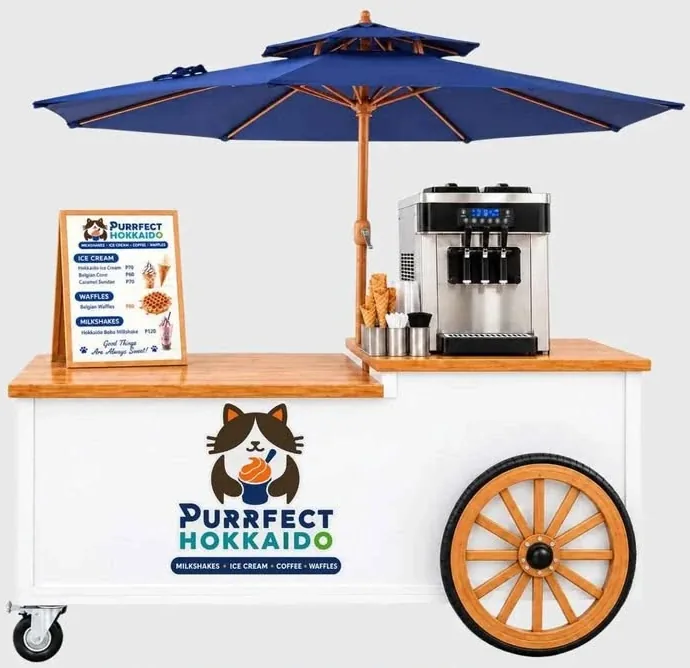
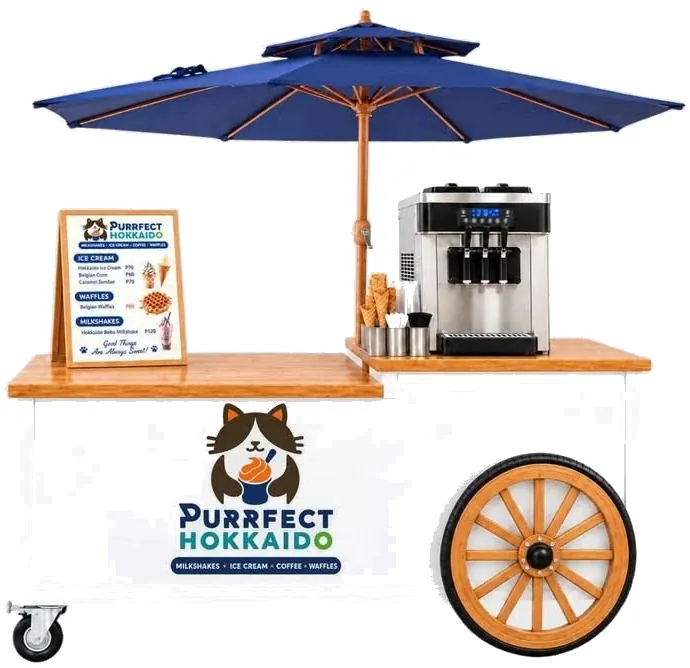
Menu: white cart photo background, white plus on order buttons

diff --git a/clients/purrfect-hokkaido/menu/index.html b/clients/purrfect-hokkaido/menu/index.html
@@ -51,7 +51,7 @@ a{color:inherit}
 .lc-foot small{font-size:11.5px;opacity:.85}
 .tile.bar{background:radial-gradient(120% 90% at 100% 0%,#ff9a52 0%,transparent 55%),linear-gradient(135deg,#f06a1c,var(--price));color:#fff;min-height:108px;padding:10px 12px;align-content:space-between;box-shadow:0 6px 16px rgba(235,78,6,.3)}
 .tile.bar b{font-size:14px;margin:0;display:block}.tile.bar small{font-size:11.5px;display:block}
-.tile.bar .cart{justify-self:end;width:auto;height:68px;aspect-ratio:690/668;border-radius:12px;background:#E9E9E9;object-fit:cover;box-shadow:0 3px 8px rgba(0,0,0,.2);border:2px solid rgba(255,255,255,.85)}
+.tile.bar .cart{justify-self:end;width:auto;height:68px;aspect-ratio:690/668;border-radius:12px;background:#fff;object-fit:cover;box-shadow:0 3px 8px rgba(0,0,0,.2);border:2px solid rgba(255,255,255,.85)}
 .tile.bar .bt{position:relative;z-index:1}
 @media (min-width:760px){.tile.bar .cart{height:72px}}
 .tile.bar::after{display:none}
@@ -80,8 +80,8 @@ main{max-width:1100px;margin:0 auto;padding:0 0 20px}
 .ph{position:relative;flex:none;width:96px;height:96px;border-radius:14px;background:var(--bg)}
 .ph img{width:100%;height:100%;object-fit:contain;padding:6px}
 .ph.none{width:44px;height:44px;background:none}
-.add{position:absolute;right:-4px;bottom:-4px;width:34px;height:34px;border-radius:50%;background:var(--price);color:#fff;display:grid;place-items:center;font-size:24px;font-weight:600;line-height:1;text-decoration:none;box-shadow:0 2px 6px rgba(235,78,6,.4)}
-.ph.none .add{right:0;bottom:4px}
+.plus{position:absolute;right:-4px;bottom:-4px;width:34px;height:34px;border-radius:50%;background:var(--price);color:#fff;display:grid;place-items:center;font:600 26px/1 Fredoka,system-ui,sans-serif;text-decoration:none;box-shadow:0 2px 6px rgba(235,78,6,.4)}
+.ph.none .plus{right:0;bottom:4px}
 .deals{display:grid;grid-template-columns:repeat(auto-fill,minmax(140px,1fr));gap:10px;padding:10px 0 14px}
 .deal{background:var(--navy);color:#fff;border-radius:16px;padding:12px;display:grid;justify-items:center;text-align:center;gap:4px;text-decoration:none}
 .deal img{height:96px;width:auto;object-fit:contain}
@@ -158,11 +158,11 @@ button.getapp img{border-radius:7px}
 <div class="tabs"><nav id="tabs" role="tablist"><a href="#all" role="tab" data-go="all">All</a><a href="#deals" role="tab" data-go="deals">Deals</a><a href="#waffles" role="tab" data-go="waffles">Waffles</a><a href="#sundaes" role="tab" data-go="sundaes">Sundaes</a><a href="#shakes" role="tab" data-go="shakes">Milkshakes</a><a href="#coffee" role="tab" data-go="coffee">Coffee</a><a href="#snacks" role="tab" data-go="snacks">Snacks</a><a href="#addons" role="tab" data-go="addons">Add-ons</a><a href="#mobile-bar" role="tab" data-go="mobile-bar">Mobile Bar</a></nav></div>
 <main>
   <section class="cat" id="deals" data-cat="deals"><h2>Cones &amp; Deals</h2><div class="deals"><a class="deal" href="order.html"><img src="img/deal-hokkaido-waffle-crisp.webp" alt="" width="70" height="110"><span class="dn">Hokkaido Waffle Crisp</span><span class="dh">₱35 ONLY</span></a><a class="deal" href="order.html"><img src="img/deal-matcha-waffle-crisp.webp" alt="" width="70" height="110"><span class="dn">Matcha Waffle Crisp</span><span class="dh">NEW!</span><span class=dp>₱45 </span></a><a class="deal" href="order.html"><img src="img/deal-hokkaido-belgian-cone.webp" alt="" width="70" height="110"><span class="dn">Hokkaido Belgian Cone</span><span class="dh">BUY 1 GET 1</span><span class=dp>₱60 for two</span></a><a class="deal" href="order.html"><img src="img/deal-matcha-belgian-cone.webp" alt="" width="70" height="110"><span class="dn">Matcha Belgian Cone</span><span class="dh">NEW!</span><span class=dp>₱80 </span></a></div></section>
-  <section class="cat" id="waffles" data-cat="waffles"><h2>Waffles</h2><ul class="rows"><li class="row"><div class="info"><p class="nm">Hokkaido Belgian Waffle · Chocolate</p><p class="pr">₱80</p></div><div class="ph"><img src="img/hk-chocolate.webp" alt="" loading="lazy" width="96" height="96"><a class="add" href="order.html" aria-label="Order Hokkaido Belgian Waffle · Chocolate">+</a></div></li><li class="row"><div class="info"><p class="nm">Hokkaido Belgian Waffle · Matcha</p><p class="pr">₱80</p></div><div class="ph"><img src="img/hk-matcha.webp" alt="" loading="lazy" width="96" height="96"><a class="add" href="order.html" aria-label="Order Hokkaido Belgian Waffle · Matcha">+</a></div></li><li class="row"><div class="info"><p class="nm">Hokkaido Belgian Waffle · Strawberry</p><p class="pr">₱80</p></div><div class="ph"><img src="img/hk-strawberry.webp" alt="" loading="lazy" width="96" height="96"><a class="add" href="order.html" aria-label="Order Hokkaido Belgian Waffle · Strawberry">+</a></div></li><li class="row"><div class="info"><p class="nm">Hokkaido Belgian Waffle · Caramel</p><p class="pr">₱80</p></div><div class="ph"><img src="img/hk-caramel.webp" alt="" loading="lazy" width="96" height="96"><a class="add" href="order.html" aria-label="Order Hokkaido Belgian Waffle · Caramel">+</a></div></li><li class="row"><div class="info"><p class="nm">Belgian Waffle · Chocolate</p><p class="pr">₱70</p></div><div class="ph"><img src="img/be-chocolate.webp" alt="" loading="lazy" width="96" height="96"><a class="add" href="order.html" aria-label="Order Belgian Waffle · Chocolate">+</a></div></li><li class="row"><div class="info"><p class="nm">Belgian Waffle · Strawberry</p><p class="pr">₱70</p></div><div class="ph"><img src="img/be-strawberry.webp" alt="" loading="lazy" width="96" height="96"><a class="add" href="order.html" aria-label="Order Belgian Waffle · Strawberry">+</a></div></li><li class="row"><div class="info"><p class="nm">Belgian Waffle · Matcha</p><p class="pr">₱70</p></div><div class="ph"><img src="img/be-matcha.webp" alt="" loading="lazy" width="96" height="96"><a class="add" href="order.html" aria-label="Order Belgian Waffle · Matcha">+</a></div></li><li class="row"><div class="info"><p class="nm">Belgian Waffle · Dark Caramel</p><p class="pr">₱70</p></div><div class="ph"><img src="img/be-dark-caramel.webp" alt="" loading="lazy" width="96" height="96"><a class="add" href="order.html" aria-label="Order Belgian Waffle · Dark Caramel">+</a></div></li></ul></section>
-  <section class="cat" id="sundaes" data-cat="sundaes"><h2>Sundaes</h2><ul class="rows"><li class="row"><div class="info"><p class="nm">Oreo Flow</p><p class="pr">₱80</p></div><div class="ph"><img src="img/sundae-oreo-flow.webp" alt="" loading="lazy" width="96" height="96"><a class="add" href="order.html" aria-label="Order Oreo Flow">+</a></div></li><li class="row"><div class="info"><p class="nm">Milo Overload</p><p class="pr">₱80</p></div><div class="ph"><img src="img/sundae-milo-overload.webp" alt="" loading="lazy" width="96" height="96"><a class="add" href="order.html" aria-label="Order Milo Overload">+</a></div></li><li class="row"><div class="info"><p class="nm">Chocolate Sundae</p><p class="pr">₱70</p></div><div class="ph"><img src="img/sundae-chocolate.webp" alt="" loading="lazy" width="96" height="96"><a class="add" href="order.html" aria-label="Order Chocolate Sundae">+</a></div></li><li class="row"><div class="info"><p class="nm">Caramel Sundae</p><p class="pr">₱70</p></div><div class="ph"><img src="img/sundae-caramel.webp" alt="" loading="lazy" width="96" height="96"><a class="add" href="order.html" aria-label="Order Caramel Sundae">+</a></div></li><li class="row"><div class="info"><p class="nm">Matcha Sundae</p><p class="pr">₱70</p></div><div class="ph"><img src="img/sundae-matcha.webp" alt="" loading="lazy" width="96" height="96"><a class="add" href="order.html" aria-label="Order Matcha Sundae">+</a></div></li><li class="row"><div class="info"><p class="nm">Strawberry Sundae</p><p class="pr">₱70</p></div><div class="ph"><img src="img/sundae-strawberry.webp" alt="" loading="lazy" width="96" height="96"><a class="add" href="order.html" aria-label="Order Strawberry Sundae">+</a></div></li><li class="row"><div class="info"><p class="nm">Chocolate Crumble Bites</p><p class=tags><span class="bs">★ Best seller</span></p><p class="pr">₱90</p></div><div class="ph"><img src="img/sundae-chocolate-crumble-bites.webp" alt="" loading="lazy" width="96" height="96"><a class="add" href="order.html" aria-label="Order Chocolate Crumble Bites">+</a></div></li><li class="row"><div class="info"><p class="nm">Honey Comb Crumble</p><p class="pr">₱90</p></div><div class="ph"><img src="img/sundae-honey-comb-crumble.webp" alt="" loading="lazy" width="96" height="96"><a class="add" href="order.html" aria-label="Order Honey Comb Crumble">+</a></div></li><li class="row"><div class="info"><p class="nm">Karamitsu Boba</p><p class=tags><span class="bs">★ Best seller</span></p><p class="pr">₱90</p></div><div class="ph"><img src="img/sundae-karamitsu-boba.webp" alt="" loading="lazy" width="96" height="96"><a class="add" href="order.html" aria-label="Order Karamitsu Boba">+</a></div></li><li class="row"><div class="info"><p class="nm">Biscoff Supreme</p><p class=tags><span class="bs">★ Best seller</span></p><p class="pr">₱95</p></div><div class="ph"><img src="img/sundae-biscoff-supreme.webp" alt="" loading="lazy" width="96" height="96"><a class="add" href="order.html" aria-label="Order Biscoff Supreme">+</a></div></li></ul></section>
-  <section class="cat" id="shakes" data-cat="shakes"><h2>Milkshakes</h2><p class=sub>Hokkaido milkshakes, ₱120 each</p><ul class="rows"><li class="row"><div class="info"><p class="nm">Hokkaido Boba</p><p class=tags><span class="bs">★ Best seller</span></p><p class="pr">₱120</p></div><div class="ph"><img src="img/shake-hokkaido-boba.webp" alt="" loading="lazy" width="96" height="96"><a class="add" href="order.html" aria-label="Order Hokkaido Boba">+</a></div></li><li class="row"><div class="info"><p class="nm">Matcha</p><p class=tags><span class="bs">★ Best seller</span></p><p class="pr">₱120</p></div><div class="ph"><img src="img/shake-matcha.webp" alt="" loading="lazy" width="96" height="96"><a class="add" href="order.html" aria-label="Order Matcha">+</a></div></li><li class="row"><div class="info"><p class="nm">Dark Mocha</p><p class="pr">₱120</p></div><div class="ph"><img src="img/shake-dark-mocha.webp" alt="" loading="lazy" width="96" height="96"><a class="add" href="order.html" aria-label="Order Dark Mocha">+</a></div></li><li class="row"><div class="info"><p class="nm">Coffee Caramel</p><p class="pr">₱120</p></div><div class="ph"><img src="img/shake-coffee-caramel.webp" alt="" loading="lazy" width="96" height="96"><a class="add" href="order.html" aria-label="Order Coffee Caramel">+</a></div></li><li class="row"><div class="info"><p class="nm">Chocolate Brownie</p><p class=tags><span class="bs">★ Best seller</span></p><p class="pr">₱120</p></div><div class="ph"><img src="img/shake-chocolate-brownie.webp" alt="" loading="lazy" width="96" height="96"><a class="add" href="order.html" aria-label="Order Chocolate Brownie">+</a></div></li><li class="row"><div class="info"><p class="nm">Oreo and Cream</p><p class="pr">₱120</p></div><div class="ph"><img src="img/shake-oreo-and-cream.webp" alt="" loading="lazy" width="96" height="96"><a class="add" href="order.html" aria-label="Order Oreo and Cream">+</a></div></li><li class="row"><div class="info"><p class="nm">Blueberry Cheesecake</p><p class="pr">₱120</p></div><div class="ph"><img src="img/shake-blueberry-cheesecake.webp" alt="" loading="lazy" width="96" height="96"><a class="add" href="order.html" aria-label="Order Blueberry Cheesecake">+</a></div></li><li class="row"><div class="info"><p class="nm">Classic Strawberry</p><p class=tags><span class="bs">★ Best seller</span></p><p class="pr">₱120</p></div><div class="ph"><img src="img/shake-classic-strawberry.webp" alt="" loading="lazy" width="96" height="96"><a class="add" href="order.html" aria-label="Order Classic Strawberry">+</a></div></li></ul></section>
-  <section class="cat" id="coffee" data-cat="coffee"><h2>Coffee</h2><p class=sub>by Primo Café</p><ul class="rows"><li class="row"><div class="info"><p class="nm">Americano</p><p class=ds>Mediano ₱70 (hot or iced) · Grande ₱80 (iced)</p><p class="pr">₱70</p></div><div class="ph none"><a class="add" href="order.html" aria-label="Order Americano">+</a></div></li><li class="row"><div class="info"><p class="nm">Latte</p><p class=ds>Mediano ₱90 (hot or iced) · Grande ₱100 (iced)</p><p class="pr">₱90</p></div><div class="ph none"><a class="add" href="order.html" aria-label="Order Latte">+</a></div></li><li class="row"><div class="info"><p class="nm">Cappuccino</p><p class=ds>Mediano ₱90 (hot or iced) · Grande ₱100 (iced)</p><p class="pr">₱90</p></div><div class="ph none"><a class="add" href="order.html" aria-label="Order Cappuccino">+</a></div></li><li class="row"><div class="info"><p class="nm">Kastilla Latte</p><p class=ds>Mediano ₱100 (hot or iced) · Grande ₱120 (iced)</p><p class="pr">₱100</p></div><div class="ph none"><a class="add" href="order.html" aria-label="Order Kastilla Latte">+</a></div></li><li class="row"><div class="info"><p class="nm">Matcha Espresso</p><p class=ds>Mediano ₱100 (hot or iced) · Grande ₱120 (iced)</p><p class="pr">₱100</p></div><div class="ph none"><a class="add" href="order.html" aria-label="Order Matcha Espresso">+</a></div></li><li class="row"><div class="info"><p class="nm">Hazelnut Latte</p><p class=ds>Mediano ₱100 (hot or iced) · Grande ₱120 (iced)</p><p class="pr">₱100</p></div><div class="ph none"><a class="add" href="order.html" aria-label="Order Hazelnut Latte">+</a></div></li><li class="row"><div class="info"><p class="nm">Caramel Macchiato</p><p class=ds>Mediano ₱100 (hot or iced) · Grande ₱120 (iced)</p><p class="pr">₱100</p></div><div class="ph none"><a class="add" href="order.html" aria-label="Order Caramel Macchiato">+</a></div></li><li class="row"><div class="info"><p class="nm">Mocha Latte</p><p class=ds>Mediano ₱100 (hot or iced) · Grande ₱120 (iced)</p><p class="pr">₱100</p></div><div class="ph none"><a class="add" href="order.html" aria-label="Order Mocha Latte">+</a></div></li><li class="row"><div class="info"><p class="nm">Dark Mocha Latte</p><p class=ds>Mediano ₱100 (hot or iced) · Grande ₱120 (iced)</p><p class="pr">₱100</p></div><div class="ph none"><a class="add" href="order.html" aria-label="Order Dark Mocha Latte">+</a></div></li><li class="row"><div class="info"><p class="nm">White Mocha Latte</p><p class=ds>Mediano ₱100 (hot or iced) · Grande ₱120 (iced)</p><p class="pr">₱100</p></div><div class="ph none"><a class="add" href="order.html" aria-label="Order White Mocha Latte">+</a></div></li><li class="row"><div class="info"><p class="nm">Irish Cream Latte</p><p class=ds>Mediano ₱100 (hot or iced) · Grande ₱120 (iced)</p><p class="pr">₱100</p></div><div class="ph none"><a class="add" href="order.html" aria-label="Order Irish Cream Latte">+</a></div></li><li class="row"><div class="info"><p class="nm">Ube Espresso</p><p class=ds>Mediano ₱100 (hot or iced) · Grande ₱120 (iced)</p><p class="pr">₱100</p></div><div class="ph none"><a class="add" href="order.html" aria-label="Order Ube Espresso">+</a></div></li><li class="row"><div class="info"><p class="nm">Affogato</p><p class=ds>One size</p><p class="pr">₱100</p></div><div class="ph none"><a class="add" href="order.html" aria-label="Order Affogato">+</a></div></li><li class="row"><div class="info"><p class="nm">Gourmet Chocolate</p><p class=ds>Mediano, iced</p><p class="pr">₱110</p></div><div class="ph none"><a class="add" href="order.html" aria-label="Order Gourmet Chocolate">+</a></div></li><li class="row"><div class="info"><p class="nm">Iced Strawberry Milk</p><p class=ds>Mediano, iced</p><p class="pr">₱110</p></div><div class="ph none"><a class="add" href="order.html" aria-label="Order Iced Strawberry Milk">+</a></div></li><li class="row"><div class="info"><p class="nm">Matcha Latte</p><p class=ds>Mediano, iced</p><p class="pr">₱110</p></div><div class="ph none"><a class="add" href="order.html" aria-label="Order Matcha Latte">+</a></div></li><li class="row"><div class="info"><p class="nm">Ube Latte</p><p class=ds>Mediano, iced</p><p class="pr">₱110</p></div><div class="ph none"><a class="add" href="order.html" aria-label="Order Ube Latte">+</a></div></li></ul></section>
-  <section class="cat" id="snacks" data-cat="snacks"><h2>Snacks</h2><ul class="rows"><li class="row"><div class="info"><p class="nm">Chicken Poppers</p><p class=ds>100g</p><p class="pr">₱150</p></div><div class="ph none"><a class="add" href="order.html" aria-label="Order Chicken Poppers">+</a></div></li><li class="row"><div class="info"><p class="nm">Fries</p><p class="pr">₱120</p></div><div class="ph none"><a class="add" href="order.html" aria-label="Order Fries">+</a></div></li><li class="row"><div class="info"><p class="nm">Chicken Poppers + Fries</p><p class=tags><span class="tag">Combo</span></p><p class="pr">₱220</p></div><div class="ph none"><a class="add" href="order.html" aria-label="Order Chicken Poppers + Fries">+</a></div></li><li class="row"><div class="info"><p class="nm">Nachos</p><p class="pr">₱240</p></div><div class="ph none"><a class="add" href="order.html" aria-label="Order Nachos">+</a></div></li></ul></section>
+  <section class="cat" id="waffles" data-cat="waffles"><h2>Waffles</h2><ul class="rows"><li class="row"><div class="info"><p class="nm">Hokkaido Belgian Waffle · Chocolate</p><p class="pr">₱80</p></div><div class="ph"><img src="img/hk-chocolate.webp" alt="" loading="lazy" width="96" height="96"><a class="plus" href="order.html" aria-label="Order Hokkaido Belgian Waffle · Chocolate">+</a></div></li><li class="row"><div class="info"><p class="nm">Hokkaido Belgian Waffle · Matcha</p><p class="pr">₱80</p></div><div class="ph"><img src="img/hk-matcha.webp" alt="" loading="lazy" width="96" height="96"><a class="plus" href="order.html" aria-label="Order Hokkaido Belgian Waffle · Matcha">+</a></div></li><li class="row"><div class="info"><p class="nm">Hokkaido Belgian Waffle · Strawberry</p><p class="pr">₱80</p></div><div class="ph"><img src="img/hk-strawberry.webp" alt="" loading="lazy" width="96" height="96"><a class="plus" href="order.html" aria-label="Order Hokkaido Belgian Waffle · Strawberry">+</a></div></li><li class="row"><div class="info"><p class="nm">Hokkaido Belgian Waffle · Caramel</p><p class="pr">₱80</p></div><div class="ph"><img src="img/hk-caramel.webp" alt="" loading="lazy" width="96" height="96"><a class="plus" href="order.html" aria-label="Order Hokkaido Belgian Waffle · Caramel">+</a></div></li><li class="row"><div class="info"><p class="nm">Belgian Waffle · Chocolate</p><p class="pr">₱70</p></div><div class="ph"><img src="img/be-chocolate.webp" alt="" loading="lazy" width="96" height="96"><a class="plus" href="order.html" aria-label="Order Belgian Waffle · Chocolate">+</a></div></li><li class="row"><div class="info"><p class="nm">Belgian Waffle · Strawberry</p><p class="pr">₱70</p></div><div class="ph"><img src="img/be-strawberry.webp" alt="" loading="lazy" width="96" height="96"><a class="plus" href="order.html" aria-label="Order Belgian Waffle · Strawberry">+</a></div></li><li class="row"><div class="info"><p class="nm">Belgian Waffle · Matcha</p><p class="pr">₱70</p></div><div class="ph"><img src="img/be-matcha.webp" alt="" loading="lazy" width="96" height="96"><a class="plus" href="order.html" aria-label="Order Belgian Waffle · Matcha">+</a></div></li><li class="row"><div class="info"><p class="nm">Belgian Waffle · Dark Caramel</p><p class="pr">₱70</p></div><div class="ph"><img src="img/be-dark-caramel.webp" alt="" loading="lazy" width="96" height="96"><a class="plus" href="order.html" aria-label="Order Belgian Waffle · Dark Caramel">+</a></div></li></ul></section>
+  <section class="cat" id="sundaes" data-cat="sundaes"><h2>Sundaes</h2><ul class="rows"><li class="row"><div class="info"><p class="nm">Oreo Flow</p><p class="pr">₱80</p></div><div class="ph"><img src="img/sundae-oreo-flow.webp" alt="" loading="lazy" width="96" height="96"><a class="plus" href="order.html" aria-label="Order Oreo Flow">+</a></div></li><li class="row"><div class="info"><p class="nm">Milo Overload</p><p class="pr">₱80</p></div><div class="ph"><img src="img/sundae-milo-overload.webp" alt="" loading="lazy" width="96" height="96"><a class="plus" href="order.html" aria-label="Order Milo Overload">+</a></div></li><li class="row"><div class="info"><p class="nm">Chocolate Sundae</p><p class="pr">₱70</p></div><div class="ph"><img src="img/sundae-chocolate.webp" alt="" loading="lazy" width="96" height="96"><a class="plus" href="order.html" aria-label="Order Chocolate Sundae">+</a></div></li><li class="row"><div class="info"><p class="nm">Caramel Sundae</p><p class="pr">₱70</p></div><div class="ph"><img src="img/sundae-caramel.webp" alt="" loading="lazy" width="96" height="96"><a class="plus" href="order.html" aria-label="Order Caramel Sundae">+</a></div></li><li class="row"><div class="info"><p class="nm">Matcha Sundae</p><p class="pr">₱70</p></div><div class="ph"><img src="img/sundae-matcha.webp" alt="" loading="lazy" width="96" height="96"><a class="plus" href="order.html" aria-label="Order Matcha Sundae">+</a></div></li><li class="row"><div class="info"><p class="nm">Strawberry Sundae</p><p class="pr">₱70</p></div><div class="ph"><img src="img/sundae-strawberry.webp" alt="" loading="lazy" width="96" height="96"><a class="plus" href="order.html" aria-label="Order Strawberry Sundae">+</a></div></li><li class="row"><div class="info"><p class="nm">Chocolate Crumble Bites</p><p class=tags><span class="bs">★ Best seller</span></p><p class="pr">₱90</p></div><div class="ph"><img src="img/sundae-chocolate-crumble-bites.webp" alt="" loading="lazy" width="96" height="96"><a class="plus" href="order.html" aria-label="Order Chocolate Crumble Bites">+</a></div></li><li class="row"><div class="info"><p class="nm">Honey Comb Crumble</p><p class="pr">₱90</p></div><div class="ph"><img src="img/sundae-honey-comb-crumble.webp" alt="" loading="lazy" width="96" height="96"><a class="plus" href="order.html" aria-label="Order Honey Comb Crumble">+</a></div></li><li class="row"><div class="info"><p class="nm">Karamitsu Boba</p><p class=tags><span class="bs">★ Best seller</span></p><p class="pr">₱90</p></div><div class="ph"><img src="img/sundae-karamitsu-boba.webp" alt="" loading="lazy" width="96" height="96"><a class="plus" href="order.html" aria-label="Order Karamitsu Boba">+</a></div></li><li class="row"><div class="info"><p class="nm">Biscoff Supreme</p><p class=tags><span class="bs">★ Best seller</span></p><p class="pr">₱95</p></div><div class="ph"><img src="img/sundae-biscoff-supreme.webp" alt="" loading="lazy" width="96" height="96"><a class="plus" href="order.html" aria-label="Order Biscoff Supreme">+</a></div></li></ul></section>
+  <section class="cat" id="shakes" data-cat="shakes"><h2>Milkshakes</h2><p class=sub>Hokkaido milkshakes, ₱120 each</p><ul class="rows"><li class="row"><div class="info"><p class="nm">Hokkaido Boba</p><p class=tags><span class="bs">★ Best seller</span></p><p class="pr">₱120</p></div><div class="ph"><img src="img/shake-hokkaido-boba.webp" alt="" loading="lazy" width="96" height="96"><a class="plus" href="order.html" aria-label="Order Hokkaido Boba">+</a></div></li><li class="row"><div class="info"><p class="nm">Matcha</p><p class=tags><span class="bs">★ Best seller</span></p><p class="pr">₱120</p></div><div class="ph"><img src="img/shake-matcha.webp" alt="" loading="lazy" width="96" height="96"><a class="plus" href="order.html" aria-label="Order Matcha">+</a></div></li><li class="row"><div class="info"><p class="nm">Dark Mocha</p><p class="pr">₱120</p></div><div class="ph"><img src="img/shake-dark-mocha.webp" alt="" loading="lazy" width="96" height="96"><a class="plus" href="order.html" aria-label="Order Dark Mocha">+</a></div></li><li class="row"><div class="info"><p class="nm">Coffee Caramel</p><p class="pr">₱120</p></div><div class="ph"><img src="img/shake-coffee-caramel.webp" alt="" loading="lazy" width="96" height="96"><a class="plus" href="order.html" aria-label="Order Coffee Caramel">+</a></div></li><li class="row"><div class="info"><p class="nm">Chocolate Brownie</p><p class=tags><span class="bs">★ Best seller</span></p><p class="pr">₱120</p></div><div class="ph"><img src="img/shake-chocolate-brownie.webp" alt="" loading="lazy" width="96" height="96"><a class="plus" href="order.html" aria-label="Order Chocolate Brownie">+</a></div></li><li class="row"><div class="info"><p class="nm">Oreo and Cream</p><p class="pr">₱120</p></div><div class="ph"><img src="img/shake-oreo-and-cream.webp" alt="" loading="lazy" width="96" height="96"><a class="plus" href="order.html" aria-label="Order Oreo and Cream">+</a></div></li><li class="row"><div class="info"><p class="nm">Blueberry Cheesecake</p><p class="pr">₱120</p></div><div class="ph"><img src="img/shake-blueberry-cheesecake.webp" alt="" loading="lazy" width="96" height="96"><a class="plus" href="order.html" aria-label="Order Blueberry Cheesecake">+</a></div></li><li class="row"><div class="info"><p class="nm">Classic Strawberry</p><p class=tags><span class="bs">★ Best seller</span></p><p class="pr">₱120</p></div><div class="ph"><img src="img/shake-classic-strawberry.webp" alt="" loading="lazy" width="96" height="96"><a class="plus" href="order.html" aria-label="Order Classic Strawberry">+</a></div></li></ul></section>
+  <section class="cat" id="coffee" data-cat="coffee"><h2>Coffee</h2><p class=sub>by Primo Café</p><ul class="rows"><li class="row"><div class="info"><p class="nm">Americano</p><p class=ds>Mediano ₱70 (hot or iced) · Grande ₱80 (iced)</p><p class="pr">₱70</p></div><div class="ph none"><a class="plus" href="order.html" aria-label="Order Americano">+</a></div></li><li class="row"><div class="info"><p class="nm">Latte</p><p class=ds>Mediano ₱90 (hot or iced) · Grande ₱100 (iced)</p><p class="pr">₱90</p></div><div class="ph none"><a class="plus" href="order.html" aria-label="Order Latte">+</a></div></li><li class="row"><div class="info"><p class="nm">Cappuccino</p><p class=ds>Mediano ₱90 (hot or iced) · Grande ₱100 (iced)</p><p class="pr">₱90</p></div><div class="ph none"><a class="plus" href="order.html" aria-label="Order Cappuccino">+</a></div></li><li class="row"><div class="info"><p class="nm">Kastilla Latte</p><p class=ds>Mediano ₱100 (hot or iced) · Grande ₱120 (iced)</p><p class="pr">₱100</p></div><div class="ph none"><a class="plus" href="order.html" aria-label="Order Kastilla Latte">+</a></div></li><li class="row"><div class="info"><p class="nm">Matcha Espresso</p><p class=ds>Mediano ₱100 (hot or iced) · Grande ₱120 (iced)</p><p class="pr">₱100</p></div><div class="ph none"><a class="plus" href="order.html" aria-label="Order Matcha Espresso">+</a></div></li><li class="row"><div class="info"><p class="nm">Hazelnut Latte</p><p class=ds>Mediano ₱100 (hot or iced) · Grande ₱120 (iced)</p><p class="pr">₱100</p></div><div class="ph none"><a class="plus" href="order.html" aria-label="Order Hazelnut Latte">+</a></div></li><li class="row"><div class="info"><p class="nm">Caramel Macchiato</p><p class=ds>Mediano ₱100 (hot or iced) · Grande ₱120 (iced)</p><p class="pr">₱100</p></div><div class="ph none"><a class="plus" href="order.html" aria-label="Order Caramel Macchiato">+</a></div></li><li class="row"><div class="info"><p class="nm">Mocha Latte</p><p class=ds>Mediano ₱100 (hot or iced) · Grande ₱120 (iced)</p><p class="pr">₱100</p></div><div class="ph none"><a class="plus" href="order.html" aria-label="Order Mocha Latte">+</a></div></li><li class="row"><div class="info"><p class="nm">Dark Mocha Latte</p><p class=ds>Mediano ₱100 (hot or iced) · Grande ₱120 (iced)</p><p class="pr">₱100</p></div><div class="ph none"><a class="plus" href="order.html" aria-label="Order Dark Mocha Latte">+</a></div></li><li class="row"><div class="info"><p class="nm">White Mocha Latte</p><p class=ds>Mediano ₱100 (hot or iced) · Grande ₱120 (iced)</p><p class="pr">₱100</p></div><div class="ph none"><a class="plus" href="order.html" aria-label="Order White Mocha Latte">+</a></div></li><li class="row"><div class="info"><p class="nm">Irish Cream Latte</p><p class=ds>Mediano ₱100 (hot or iced) · Grande ₱120 (iced)</p><p class="pr">₱100</p></div><div class="ph none"><a class="plus" href="order.html" aria-label="Order Irish Cream Latte">+</a></div></li><li class="row"><div class="info"><p class="nm">Ube Espresso</p><p class=ds>Mediano ₱100 (hot or iced) · Grande ₱120 (iced)</p><p class="pr">₱100</p></div><div class="ph none"><a class="plus" href="order.html" aria-label="Order Ube Espresso">+</a></div></li><li class="row"><div class="info"><p class="nm">Affogato</p><p class=ds>One size</p><p class="pr">₱100</p></div><div class="ph none"><a class="plus" href="order.html" aria-label="Order Affogato">+</a></div></li><li class="row"><div class="info"><p class="nm">Gourmet Chocolate</p><p class=ds>Mediano, iced</p><p class="pr">₱110</p></div><div class="ph none"><a class="plus" href="order.html" aria-label="Order Gourmet Chocolate">+</a></div></li><li class="row"><div class="info"><p class="nm">Iced Strawberry Milk</p><p class=ds>Mediano, iced</p><p class="pr">₱110</p></div><div class="ph none"><a class="plus" href="order.html" aria-label="Order Iced Strawberry Milk">+</a></div></li><li class="row"><div class="info"><p class="nm">Matcha Latte</p><p class=ds>Mediano, iced</p><p class="pr">₱110</p></div><div class="ph none"><a class="plus" href="order.html" aria-label="Order Matcha Latte">+</a></div></li><li class="row"><div class="info"><p class="nm">Ube Latte</p><p class=ds>Mediano, iced</p><p class="pr">₱110</p></div><div class="ph none"><a class="plus" href="order.html" aria-label="Order Ube Latte">+</a></div></li></ul></section>
+  <section class="cat" id="snacks" data-cat="snacks"><h2>Snacks</h2><ul class="rows"><li class="row"><div class="info"><p class="nm">Chicken Poppers</p><p class=ds>100g</p><p class="pr">₱150</p></div><div class="ph none"><a class="plus" href="order.html" aria-label="Order Chicken Poppers">+</a></div></li><li class="row"><div class="info"><p class="nm">Fries</p><p class="pr">₱120</p></div><div class="ph none"><a class="plus" href="order.html" aria-label="Order Fries">+</a></div></li><li class="row"><div class="info"><p class="nm">Chicken Poppers + Fries</p><p class=tags><span class="tag">Combo</span></p><p class="pr">₱220</p></div><div class="ph none"><a class="plus" href="order.html" aria-label="Order Chicken Poppers + Fries">+</a></div></li><li class="row"><div class="info"><p class="nm">Nachos</p><p class="pr">₱240</p></div><div class="ph none"><a class="plus" href="order.html" aria-label="Order Nachos">+</a></div></li></ul></section>
   <section class="cat" id="addons" data-cat="addons"><h2>Add-ons</h2><p class=sub>Add to your order at the counter or on the order page.</p><ul class="rows"><li class="row"><div class="info"><p class="nm">Pearl</p><p class=ds>Ice cream &amp; milkshakes</p><p class="pr">+₱15</p></div></li><li class="row"><div class="info"><p class="nm">Nata de Coco</p><p class=ds>Ice cream &amp; milkshakes</p><p class="pr">+₱15</p></div></li><li class="row"><div class="info"><p class="nm">Coffee Jelly</p><p class=ds>Ice cream &amp; milkshakes</p><p class="pr">+₱15</p></div></li><li class="row"><div class="info"><p class="nm">Toppings</p><p class=ds>Ice cream &amp; milkshakes</p><p class="pr">+₱10</p></div></li><li class="row"><div class="info"><p class="nm">Syrups</p><p class=ds>Ice cream &amp; milkshakes</p><p class="pr">+₱5</p></div></li><li class="row"><div class="info"><p class="nm">Espresso Shot</p><p class=ds>Any coffee</p><p class="pr">+₱30</p></div></li><li class="row"><div class="info"><p class="nm">Oat Milk</p><p class=ds>Any coffee</p><p class="pr">+₱40</p></div></li></ul></section>
   <section class="cat" id="mobile-bar-wrap" data-cat="mobile-bar"><section id="mobile-bar"><h2>Mobile Ice Cream Bar</h2>
   <div class="barhero"><img src="img/bar-cart.webp" alt="Purrfect Hokkaido mobile ice cream cart" loading="lazy" width="345" height="334">

diff --git a/clients/purrfect-hokkaido/menu/sw.js b/clients/purrfect-hokkaido/menu/sw.js
@@ -1,4 +1,4 @@
-const CACHE = 'ph-3a2c05ab38fe';
+const CACHE = 'ph-9e5a38a8495d';
 const PRECACHE = [
  "./",
  "card.html",
